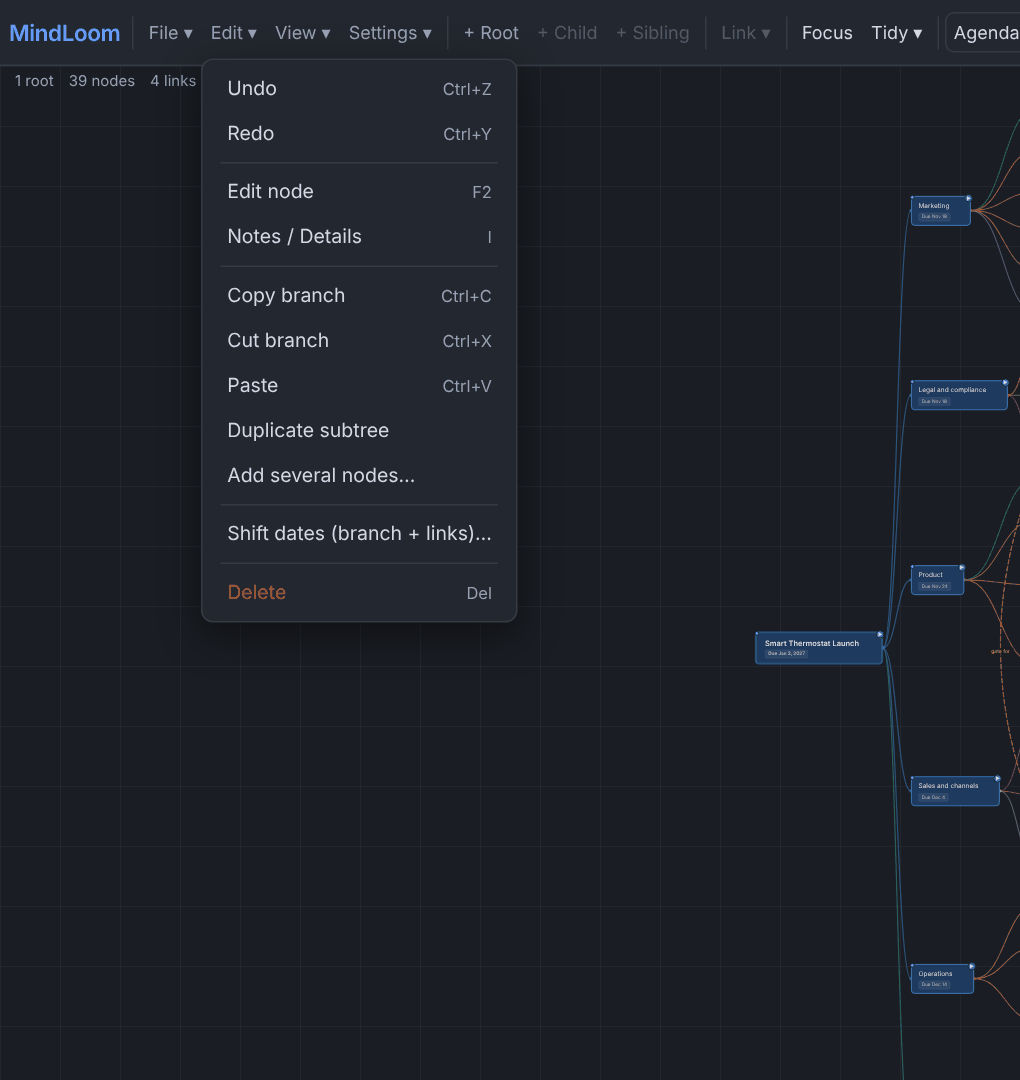
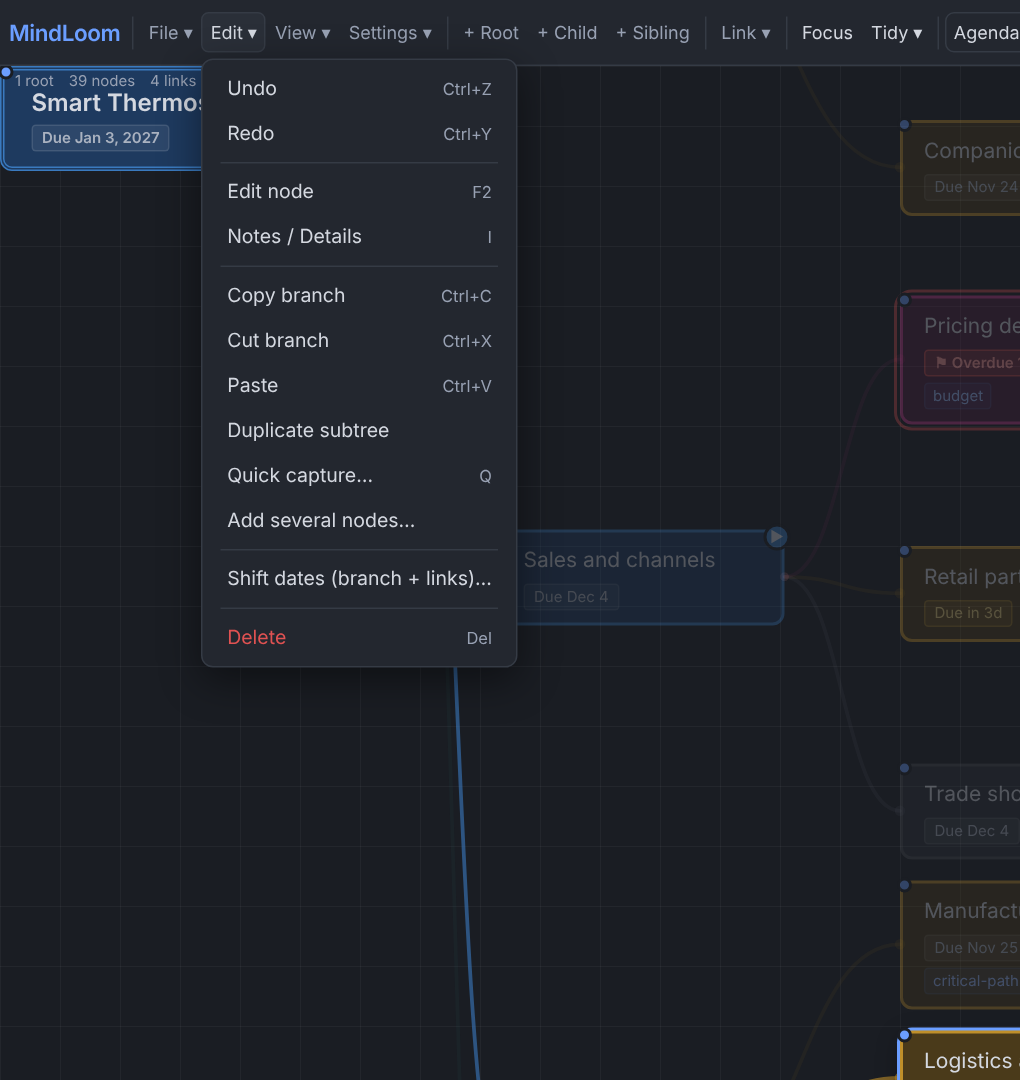
MindLoom 1.38.0: Simple Menus, Welcome tips and a User Guide link
- Settings > Simple Menus (off by default) hides specialist items from the menus and toolbar; Ctrl+K still finds every command
- Welcome tips card shown once in a browser that has never held MindLoom data; reopen from File > Welcome Tips
- File > User Guide, About screen and tips card link to the online guide (only on click)
- User guide: new Simple menus, Welcome tips and guide-link sections, FAQ entry, refreshed File/Edit/View/Settings menu screenshots
- README and version.json bumped to 1.38.0

Claude-Session: https://claude.ai/code/session_01F1jASLsfizm7CQ9EwC3Gd3

diff --git a/MindLoom.html b/MindLoom.html
@@ -432,6 +432,20 @@
   .legend-tools select { flex:1; }
   .cat-edit { position:fixed; z-index:300; width:120px; background:var(--surface); color:var(--text); border:1px solid var(--accent); border-radius:5px; padding:4px 6px; font:12px var(--font); outline:none; box-shadow:0 4px 14px rgba(0,0,0,0.4); }
 
+  /* ── Simple menus and welcome tips ── */
+  body.simple-menus .adv { display:none !important; }
+  #tips-card { position:fixed; top:78px; right:16px; width:310px; z-index:130; display:none; background:var(--surface); border:1px solid var(--border); border-radius:10px; box-shadow:0 8px 28px rgba(0,0,0,0.4); padding:14px 16px 12px; font-size:12.5px; line-height:1.5; color:var(--text); }
+  #tips-card.visible { display:block; }
+  #tips-card h3 { margin:0 0 8px; font-size:14px; }
+  #tips-card ul { list-style:none; margin:0 0 10px; padding:0; }
+  #tips-card li { display:flex; gap:10px; align-items:baseline; padding:2px 0; }
+  #tips-card li > kbd { flex:0 0 52px; text-align:center; }
+  #tips-card kbd { font:11px var(--font); background:var(--surface-hover); border:1px solid var(--border); border-radius:4px; padding:1px 6px; white-space:nowrap; }
+  #tips-card .tc-row { display:flex; justify-content:space-between; align-items:center; gap:10px; }
+  #tips-card a { color:var(--accent); }
+  #tips-card button { background:var(--accent); color:#fff; border:0; border-radius:6px; padding:5px 14px; font:12px var(--font); cursor:pointer; }
+  #tips-card .tc-note { margin-top:8px; font-size:10.5px; color:var(--text-muted); }
+
   /* ── Minimap ── */
   #minimap {
     position:fixed; bottom:16px; left:16px; width:180px; height:120px;
@@ -1082,7 +1096,7 @@
   /* ── Print stylesheet ── */
   @media print {
     body { background:#fff !important; color:#000 !important; overflow:visible !important; height:auto !important; }
-    #toolbar, #filter-bar, #color-bar, #bulk-bar, #minimap, #legend,
+    #toolbar, #filter-bar, #color-bar, #bulk-bar, #minimap, #legend, #tips-card,
     #detail-panel, #ctx-menu, #about-overlay, #shift-overlay, #bulk-overlay, #impact-bar, #impact-panel, #lt-overlay, #dc-overlay, #search-box, #focus-panel,
     #stats-panel, #agenda-panel, #timeline-overlay, #mobile-bar, #cmd-overlay, #qc-overlay, #board-overlay, #report-overlay, #tl-tip, #demo-section, #save-badge, #stats, #link-banner, #toast, .collapse-btn, .more-btn,
     #bookmarks-panel, #views-panel, #xp-panel, #bl-panel, #act-panel, #why-bar, #pres-overlay, #due-badge, #dm-tip,
@@ -1167,7 +1181,7 @@
         <div class="dd-submenu-items">
           <button class="dd-item" onclick="exportPNG();closeDD()" title="Save the whole map as a picture">Export PNG</button>
           <button class="dd-item" onclick="exportSVG();closeDD()" title="Save the same picture as a vector image that stays sharp at any size and can be edited in PowerPoint or Inkscape">Export SVG</button>
-          <button class="dd-item" onclick="toggleExportPresets();closeDD()" title="Save named combinations of export settings (Slide view, Critical path, Lines, Bar Colours, background) and export with one click">Export Presets&hellip;</button>
+          <button class="dd-item adv" onclick="toggleExportPresets();closeDD()" title="Save named combinations of export settings (Slide view, Critical path, Lines, Bar Colours, background) and export with one click">Export Presets&hellip;</button>
           <button class="dd-item" onclick="exportMarkdown();closeDD()" title="Export an indented Markdown outline: text, status, owner, project, dates, tags, notes and cross-links. Dependencies, checklists, progress and recurrence are not included (use Save for those)">Export Markdown</button>
           <button class="dd-item" onclick="exportCSV();closeDD()" title="Export nodes as a spreadsheet: text, parent, category, project, owner, status, dates, tags and notes. Cross-links, dependencies, checklists, progress and recurrence are not included (use Save for those)">Export CSV</button>
         </div>
@@ -1177,6 +1191,8 @@
       <div class="dd-sep"></div>
       <button class="dd-item danger" onclick="newMap();closeDD()" title="Start a new empty map (your current map is backed up first)">New Map</button>
       <div class="dd-sep"></div>
+      <button class="dd-item" onclick="openGuide();closeDD()" title="Open the full illustrated User Guide in your browser. It needs an internet connection; MindLoom itself never goes online on its own.">User Guide&hellip;</button>
+      <button class="dd-item" onclick="showTips();closeDD()" title="Show the short list of tips for getting started">Welcome Tips&hellip;</button>
       <button class="dd-item" onclick="showAbout();closeDD()" title="Version, features and information about MindLoom">About MindLoom</button>
     </div>
   </div>
@@ -1198,7 +1214,7 @@
       <button class="dd-item" onclick="openCapture();closeDD()" title="Type a task and press Enter: it goes under an Inbox node without you choosing where. Add a date (fri, tomorrow, +2w), #tag and @owner in the same line">Quick capture&hellip; <span class="shortcut">Q</span></button>
       <button class="dd-item" onclick="openBulkAdd();closeDD()" title="Type or paste a list of names and create them all at once, as top-level nodes or under the selected node">Add several nodes&hellip;</button>
       <div class="dd-sep"></div>
-      <button class="dd-item" onclick="openShiftDates();closeDD()" title="Move the dates of the selected branch (and nodes linked to it) by days, weeks or months">Shift dates (branch + links)&hellip;</button>
+      <button class="dd-item adv" onclick="openShiftDates();closeDD()" title="Move the dates of the selected branch (and nodes linked to it) by days, weeks or months">Shift dates (branch + links)&hellip;</button>
       <div class="dd-sep"></div>
       <button class="dd-item danger" onclick="deleteSelected();closeDD()" title="Delete the selected node and everything beneath it">Delete <span class="shortcut">Del</span></button>
     </div>
@@ -1221,11 +1237,11 @@
       <div class="dd-submenu">
         <button class="dd-item" title="Show or hide side panels such as search, filter, legend and statistics">Panels</button>
         <div class="dd-submenu-items">
-          <button class="dd-item" onclick="toggleFocusPanel();closeDD()" title="Show or hide whole root trees to concentrate on one">Focus Roots <span class="shortcut">G</span></button>
+          <button class="dd-item adv" onclick="toggleFocusPanel();closeDD()" title="Show or hide whole root trees to concentrate on one">Focus Roots <span class="shortcut">G</span></button>
           <button class="dd-item" onclick="toggleFilter();closeDD()" title="Dim nodes that don't match a status, colour, owner or tag">Filter Bar <span class="shortcut">Ctrl+F</span></button>
           <button class="dd-item" onclick="toggleSearch();closeDD()" title="Find nodes by their title, notes, tags or date">Search <span class="shortcut">/</span></button>
           <button class="dd-item" onclick="toggleLegend();closeDD()" title="Show or hide the colour key. Click any name in it to rename a category, pick a ready-made set (Task status, RAG, Workstream) or Reset. You can also double-click a colour on the colour bar. Names are saved with the map. The colours themselves don't change.">Legend / Rename Colours</button>
-          <button class="dd-item" onclick="toggleMinimap();closeDD()" title="Show or hide a small overview of the whole map">Minimap</button>
+          <button class="dd-item adv" onclick="toggleMinimap();closeDD()" title="Show or hide a small overview of the whole map">Minimap</button>
           <button class="dd-item" onclick="toggleStatsPanel();closeDD()" title="Show counts and progress statistics for the map">Statistics <span class="shortcut">S</span></button>
         </div>
       </div>
@@ -1235,8 +1251,8 @@
       <button class="dd-item" onclick="toggleBoard();closeDD()" title="Kanban columns by status, owner or project. Drag cards between columns to change them">Board <span class="shortcut">K</span></button>
       <button class="dd-item" onclick="toggleReport();closeDD()" title="A ready-to-send summary: overdue, blocked, due soon and recently completed. Copy, download or print it">Status report <span class="shortcut">R</span></button>
       <div class="dd-sep"></div>
-      <button class="dd-item" onclick="toggleBookmarks();closeDD()" title="Show your bookmarked nodes and jump to them">Bookmarks <span class="shortcut">B</span></button>
-      <button class="dd-item" onclick="toggleViews();closeDD()" title="Save and recall combinations of filters, hidden trees, collapsed branches and camera position">Saved Views <span class="shortcut">V</span></button>
+      <button class="dd-item adv" onclick="toggleBookmarks();closeDD()" title="Show your bookmarked nodes and jump to them">Bookmarks <span class="shortcut">B</span></button>
+      <button class="dd-item adv" onclick="toggleViews();closeDD()" title="Save and recall combinations of filters, hidden trees, collapsed branches and camera position">Saved Views <span class="shortcut">V</span></button>
       <div id="dep-menu-block" style="display:none">
         <div class="dd-sep"></div>
         <div class="dd-label">Dependencies</div>
@@ -1255,24 +1271,25 @@
       <div class="dd-label">Appearance</div>
       <button class="dd-item" id="theme-toggle" onclick="toggleTheme();closeDD()" title="Switch between the dark and light theme">Theme: Dark</button>
       <button class="dd-item" id="conn-toggle" onclick="toggleConnStyle();closeDD()" title="Switch the lines between curved and squared (right-angle) routing that goes around nodes">Connectors: Curved</button>
+      <button class="dd-item" id="simple-toggle" onclick="toggleSimpleMenus();closeDD()" title="Hide the specialist items (saved views, bookmarks, baselines, link types, activity history and so on) so only the everyday ones show. Ctrl+K still finds every command. Off by default; remembered in this browser">Simple Menus: Off</button>
       <div class="dd-label">Background</div>
       <div class="bg-row" id="bg-colors"></div>
       <div class="dd-label">Pattern</div>
       <div class="bg-row" id="bg-patterns"></div>
       <div class="dd-sep"></div>
       <div class="dd-label">Editing</div>
-      <button class="dd-item" id="act-toggle" onclick="toggleActivity();closeDD()" title="Keep comments and a history of changes (status, dates, owner) for each item. Off by default; saved with this map">Advanced Activity &amp; Comments: Off</button>
-      <button class="dd-item" id="author-btn" style="display:none" onclick="setAuthorName();closeDD()" title="Your name is added to the comments and changes you make, so a shared history shows who did what">Your name: not set</button>
-      <button class="dd-item" id="dep-toggle" onclick="toggleDepMap();closeDD()" title="Adds link types, migration waves, an impact view and a dependency check for mapping how systems rely on each other. Off by default; saved with this map">Application Mapping Structures: Off</button>
-      <button class="dd-item" id="snap-toggle" onclick="toggleSnap();closeDD()" title="Snap nodes to a grid when you drag them">Snap to Grid: Off</button>
-      <button class="dd-item" id="dpl-toggle" onclick="cycleDetailLayout();closeDD()" title="How the details panel is laid out: Classic, Sections (a summary line and collapsible rows) or Property List (a quiet list that shows boxes only when you hover or edit)">Details Layout: Classic</button>
-      <button class="dd-item" id="hover-toggle" onclick="toggleHoverPopup();closeDD()" title="Show a details popup when you hover over a node">Hover Popups: Off</button>
-      <button class="dd-item" id="focussel-toggle" onclick="toggleFocusSel();closeDD()" title="When a node is selected, fade everything unrelated and show only its own links and dependencies">Highlight Selection: On</button>
+      <button class="dd-item adv" id="act-toggle" onclick="toggleActivity();closeDD()" title="Keep comments and a history of changes (status, dates, owner) for each item. Off by default; saved with this map">Advanced Activity &amp; Comments: Off</button>
+      <button class="dd-item adv" id="author-btn" style="display:none" onclick="setAuthorName();closeDD()" title="Your name is added to the comments and changes you make, so a shared history shows who did what">Your name: not set</button>
+      <button class="dd-item adv" id="dep-toggle" onclick="toggleDepMap();closeDD()" title="Adds link types, migration waves, an impact view and a dependency check for mapping how systems rely on each other. Off by default; saved with this map">Application Mapping Structures: Off</button>
+      <button class="dd-item adv" id="snap-toggle" onclick="toggleSnap();closeDD()" title="Snap nodes to a grid when you drag them">Snap to Grid: Off</button>
+      <button class="dd-item adv" id="dpl-toggle" onclick="cycleDetailLayout();closeDD()" title="How the details panel is laid out: Classic, Sections (a summary line and collapsible rows) or Property List (a quiet list that shows boxes only when you hover or edit)">Details Layout: Classic</button>
+      <button class="dd-item adv" id="hover-toggle" onclick="toggleHoverPopup();closeDD()" title="Show a details popup when you hover over a node">Hover Popups: Off</button>
+      <button class="dd-item adv" id="focussel-toggle" onclick="toggleFocusSel();closeDD()" title="When a node is selected, fade everything unrelated and show only its own links and dependencies">Highlight Selection: On</button>
       <button class="dd-item" id="completed-toggle" onclick="toggleHideCompleted();closeDD()" title="Hide nodes marked Completed, along with their branches">Hide Completed: Off</button>
       <div class="dd-sep"></div>
-      <div class="dd-label">Planning</div>
-      <button class="dd-item" id="baseline-open" onclick="toggleBaselines();closeDD()" title="Save the planned dates as a baseline, and show where each Date Axis bar has slipped to">Baselines&hellip;</button>
-      <div class="dd-submenu">
+      <div class="dd-label adv">Planning</div>
+      <button class="dd-item adv" id="baseline-open" onclick="toggleBaselines();closeDD()" title="Save the planned dates as a baseline, and show where each Date Axis bar has slipped to">Baselines&hellip;</button>
+      <div class="dd-submenu adv">
         <button class="dd-item" id="dm-settings-trigger" title="Everything about how the Date Axis looks and behaves">Date Axis settings</button>
         <div class="dd-submenu-items">
           <button class="dd-item" id="datemode-toggle" onclick="toggleDateMode();closeDD()" title="Place nodes on a calendar axis at their dates, grouped in swimlanes">Date Axis: Off</button>
@@ -1307,7 +1324,7 @@
     </div>
   </div>
   <div class="sep tb-wide"></div>
-  <button class="tb-btn tb-view tb-wide" id="tb-focus" onclick="toggleFocusPanel()" title="Show or hide whole root trees so you can concentrate on one (G)">Focus</button>
+  <button class="tb-btn adv tb-view tb-wide" id="tb-focus" onclick="toggleFocusPanel()" title="Show or hide whole root trees so you can concentrate on one (G)">Focus</button>
   <div class="dropdown tb-wide" id="dd-tidy">
     <button class="tb-btn tb-view" onclick="toggleDD('dd-tidy')" title="Auto-arrange nodes into a tree, an outline, or date swimlanes when the Date Axis is on">Tidy &#9662;</button>
     <div class="dropdown-menu" id="ddm-tidy">
@@ -1331,7 +1348,7 @@
     <button class="tb-btn tb-view" id="tb-board" onclick="toggleBoard()" title="Kanban columns by status, owner or project. Drag cards to change them (K)">Board</button>
     <button class="tb-btn tb-view" id="tb-report" onclick="toggleReport()" title="A ready-to-send summary: overdue, blocked, due soon and recently completed (R)">Report</button>
   </div>
-  <button class="tb-btn tb-view tb-wide" id="tb-saved" onclick="toggleViews()" title="Save and recall combinations of filters, hidden trees, collapsed branches and camera position (V)">Saved Views</button>
+  <button class="tb-btn adv tb-view tb-wide" id="tb-saved" onclick="toggleViews()" title="Save and recall combinations of filters, hidden trees, collapsed branches and camera position (V)">Saved Views</button>
 
   <div class="spacer"></div>
   <button class="tb-btn sb-muted" id="save-badge" onclick="saveToFile()" title="Save status: click to save the map to a file"></button>
@@ -1384,6 +1401,18 @@
   </div>
 </div>
 
+<div id="tips-card" role="dialog" aria-label="Welcome tips">
+  <h3>Welcome to MindLoom</h3>
+  <ul>
+    <li><kbd>Tab</kbd><span>add a child &middot; <kbd>Enter</kbd> add a sibling</span></li>
+    <li><kbd>F2</kbd><span>rename the selected node</span></li>
+    <li><kbd>I</kbd><span>add a status, owner and due date</span></li>
+    <li><kbd>Q</kbd><span>quick capture a task, e.g. <i>Call supplier fri #work</i></span></li>
+    <li><kbd class="tc-k">Ctrl+K</kbd><span>find any command</span></li>
+  </ul>
+  <div class="tc-row"><a href="https://healeychris.github.io/MindLoom/" target="_blank" rel="noopener noreferrer">Open the User Guide</a><button type="button" onclick="closeTips()">Got it</button></div>
+  <div class="tc-note">Show this again any time from File &rarr; Welcome Tips.</div>
+</div>
 <div id="qc-overlay" onclick="if(event.target===this)closeCapture()">
   <div id="qc-box" role="dialog" aria-label="Quick capture">
     <input type="text" id="qc-input" placeholder="Quick capture, e.g. Call supplier fri #work @sam" aria-label="Quick capture" autocomplete="off" spellcheck="false" maxlength="300">
@@ -1706,6 +1735,7 @@
       <span id="upd-msg" role="status" aria-live="polite">Not checked. Needs an internet connection; nothing is checked automatically.</span>
     </div>
 
+    <div style="margin-bottom:12px"><a href="https://healeychris.github.io/MindLoom/" target="_blank" rel="noopener noreferrer" style="color:var(--accent)">Open the User Guide</a> <span style="color:var(--text-muted);font-size:11px">&nbsp;with screenshots and step-by-step recipes (needs an internet connection)</span></div>
     <p>A fully offline, single-file tool for mind mapping and planning: dependencies, a board, a timeline and status reports, all from one map. No cloud services, no dependencies, no install &mdash; just save the HTML file and open it in any browser.</p>
     <p>Created by <strong>Chris Healey</strong>, built with assistance from <strong>Claude</strong> (Anthropic).</p>
 
@@ -1849,6 +1879,7 @@
 
 <script>
 const $=s=>document.querySelector(s), $$=s=>document.querySelectorAll(s);
+const HAD_DATA=(()=>{try{for(let i=0;i<localStorage.length;i++){const k=localStorage.key(i)||'';if(k.startsWith('mindloom')||k.startsWith('mindmap'))return true;}}catch(e){}return false;})();
 
 // ── Filename helper: MindLoom-DDMMYYYY.ext ──
 function dfn(ext){const d=new Date();const dd=String(d.getDate()).padStart(2,'0');const mm=String(d.getMonth()+1).padStart(2,'0');const yyyy=d.getFullYear();return 'MindLoom-'+yyyy+mm+dd+'.'+ext;}
@@ -2248,7 +2279,7 @@ function sanitizeLinks(raw,list){
 const OLD_KEY='mindmap_v5';
 const LEGACY_KEY='mindloom_v1';
 const STORE_KEY=location.protocol==='file:'?LEGACY_KEY+':'+location.pathname:LEGACY_KEY;
-const FORMAT_NAME='MindLoom',FORMAT_VERSION=5,APP_VERSION='1.37.1';
+const FORMAT_NAME='MindLoom',FORMAT_VERSION=5,APP_VERSION='1.38.0';
 const BK_KEY=STORE_KEY+':backups',BACKUP_EVERY=10*60*1000,NUDGE_EVERY=10*60*1000,BACKUP_KEEP=6,PROTECTED_KEEP=6,PROTECTED_LABELS=['last session','before load','before new map','before restore'];
 let storageWarned=false;
 function storageGet(k){try{return localStorage.getItem(k);}catch(e){return null;}}
@@ -2256,6 +2287,22 @@ function storageSet(k,v){
   try{localStorage.setItem(k,v);return true;}
   catch(e){if(!storageWarned){storageWarned=true;toast('Browser storage unavailable — use File > Save to keep your work');}return false;}
 }
+
+// ── Simple menus, User Guide link and welcome tips ──
+const GUIDE_URL='https://healeychris.github.io/MindLoom/';
+const PREFS_KEY=LEGACY_KEY+':prefs';
+let prefs={};try{prefs=JSON.parse(storageGet(PREFS_KEY)||'{}')||{};}catch(e){prefs={};}
+function savePrefs(){storageSet(PREFS_KEY,JSON.stringify(prefs));}
+function setSimpleMenus(v,quiet){
+  prefs.simple=!!v;document.body.classList.toggle('simple-menus',prefs.simple);
+  const b=$('#simple-toggle');if(b)b.textContent='Simple Menus: '+(prefs.simple?'On':'Off');
+  savePrefs();if(!quiet)toast(prefs.simple?'Simple menus on. Ctrl+K still finds every command':'Simple menus off');
+}
+function toggleSimpleMenus(){setSimpleMenus(!prefs.simple);}
+function openGuide(){window.open(GUIDE_URL,'_blank','noopener,noreferrer');}
+function showTips(){$('#tips-card').classList.add('visible');}
+function closeTips(){$('#tips-card').classList.remove('visible');if(!prefs.tipsSeen){prefs.tipsSeen=1;savePrefs();}}
+document.addEventListener('keydown',e=>{if(e.key==='Escape'&&$('#tips-card').classList.contains('visible'))closeTips();});
 
 // ── Init ──
 function init(){
@@ -7764,6 +7811,9 @@ function selfTest(){
      ok('quick capture +2w and ISO dates',qcParse('Review plan +2w').due===addToIso(new Date(tm).toISOString().slice(0,10),2,'w')&&qcParse('Ship it 2031-12-01').due==='2031-12-01'&&qcParse('Ship it 31/02/2031').due==='');}
     {const keep=COLORS.map(c=>c.label);applyLabels(LABEL_SETS['Task status']);const a=COLORS[3].label==='In progress'&&COLORS[4].label==='Blocked'&&COLORS[2].label==='Done';applyLabels(DEFAULT_LABELS);const b=COLORS[3].label==='In Progress'&&COLORS[1].label==='Primary';applyLabels(keep);
      ok('colour label sets apply and reset',a&&b&&Object.values(LABEL_SETS).every(x=>x.length===COLORS.length));}
+    {const was=!!prefs.simple;setSimpleMenus(true,true);const hid=getComputedStyle($('#dep-toggle')).display==='none'&&getComputedStyle($('#tb-saved')).display==='none'&&getComputedStyle($('#simple-toggle')).display!=='none';
+     setSimpleMenus(false,true);const back=getComputedStyle($('#dep-toggle')).display!=='none';setSimpleMenus(was,true);
+     ok('simple menus hide specialist items and keep the switch visible',hid&&back);}
   }catch(e){ok('self-test crashed: '+e.message,false);}
   const bad=res.filter(r=>!r[1]);
   console.log('MindLoom self-test\n'+res.map(r=>(r[1]?'PASS ':'FAIL ')+r[0]).join('\n'));
@@ -7773,6 +7823,10 @@ function selfTest(){
 $('#selftest-btn').addEventListener('click',selfTest);
 $('#about-ver').textContent='Version '+APP_VERSION;
 init();
+setSimpleMenus(prefs.simple,true);
+if(/Mac|iPhone|iPad/.test(navigator.platform||''))$('#tips-card .tc-k').textContent='\u2318K';
+// the tips card opens by itself only in a browser that has never held MindLoom data, and only once
+if(!HAD_DATA&&!prefs.tipsSeen)setTimeout(showTips,700);
 </script>
 </body>
 </html>

diff --git a/docs/index.html b/docs/index.html
@@ -116,6 +116,7 @@ footer{color:var(--muted);font-size:13px;border-top:1px solid var(--border);padd
   <h4>Everyday use</h4>
   <a href="#files">Saving, files and backups</a>
   <a href="#settings">Settings and appearance</a>
+  <a href="#simple-menus">&nbsp;&nbsp;Simple menus</a>
   <a href="#shortcuts">Keyboard shortcuts</a>
   <a href="#examples">Example maps</a>
   <a href="#faq">Questions and fixes</a>
@@ -141,7 +142,7 @@ footer{color:var(--muted);font-size:13px;border-top:1px solid var(--border);padd
     <div class="card"><h4>Map how things connect</h4><p>Optionally switch on Application Mapping Structures to show what relies on what, for migrations and change planning.</p></div>
   </div>
   <h3>How to read this guide</h3>
-  <p>Use the contents on the left, or the search box at the top. If you are new, read <a href="#quickstart">Quick start</a>, then try a <a href="#recipes">recipe</a>. Everything is also in the <a href="#shortcuts">keyboard shortcut</a> list and the <a href="#faq">questions and fixes</a> section. Developers and IT teams will find the <a href="#technical">technical reference</a> at the end.</p>
+  <p>Use the contents on the left, or the search box at the top. If you are new, read <a href="#quickstart">Quick start</a>, then try a <a href="#recipes">recipe</a>. Everything is also in the <a href="#shortcuts">keyboard shortcut</a> list and the <a href="#faq">questions and fixes</a> section. Developers and IT teams will find the <a href="#technical">technical reference</a> at the end. Inside MindLoom, <b>File &rarr; User Guide</b> opens this page.</p>
   <div class="callout tip"><b class="t">Keep this open while you learn</b>Press <kbd>?</kbd> in MindLoom for a built-in list of shortcuts and tips, and <kbd>Ctrl</kbd>+<kbd>K</kbd> to search every command by name.</div>
 </section>
 
@@ -149,7 +150,7 @@ footer{color:var(--muted);font-size:13px;border-top:1px solid var(--border);padd
   <h2>Quick start</h2>
   <p>Five minutes to your first useful map.</p>
   <ol class="steps">
-    <li><b>Open the file.</b> Double-click <code>MindLoom.html</code>. It opens in your normal browser and works without an internet connection. You start on a fresh map with one central idea.</li>
+    <li><b>Open the file.</b> Double-click <code>MindLoom.html</code>. It opens in your normal browser and works without an internet connection. You start on a fresh map with one central idea. The first time you use MindLoom in a browser, a short <a href="#welcome-tips">Welcome tips</a> card appears.</li>
     <li><b>Name the central idea.</b> Select it and press <kbd>F2</kbd>, type a name and press <kbd>Enter</kbd>.</li>
     <li><b>Add branches.</b> With a node selected, press <kbd>Tab</kbd> to add a child and <kbd>Enter</kbd> to add a sibling. Type, press <kbd>Enter</kbd>, and keep going.</li>
     <li><b>Capture ideas quickly.</b> Press <kbd>Q</kbd> from anywhere, type a task such as <i>Call supplier fri #work @sam</i> and press <kbd>Enter</kbd>. It is filed under an Inbox node for you to sort later (<a href="#basics">more on Quick capture</a>).</li>
@@ -481,7 +482,7 @@ footer{color:var(--muted);font-size:13px;border-top:1px solid var(--border);padd
     <tr><td>Rolling backups</td><td>Your browser</td><td>File &rarr; Restore backup. Your previous map is kept here as "last session".</td></tr>
   </table>
   <p>MindLoom always opens on a fresh map. To continue earlier work, use <b>File &rarr; Load</b> or <b>Restore backup</b>.</p>
-  <figure class="small"><img src="img/menu-file.png" alt="The File menu" loading="lazy"><figcaption>The File menu.</figcaption></figure>
+  <figure class="small"><img src="img/menu-file.png" alt="The File menu" loading="lazy"><figcaption>The File menu. <b>User Guide</b> opens this guide in your browser, and <b>Welcome Tips</b> shows the getting-started card again.</figcaption></figure>
   <h3>Saving</h3>
   <ul>
     <li><b>Save</b> (<kbd>Ctrl</kbd>+<kbd>S</kbd>) and <b>Save As</b> write a file in MindLoom's own format. Use this for your real work.</li>
@@ -509,6 +510,7 @@ footer{color:var(--muted);font-size:13px;border-top:1px solid var(--border);padd
     <tr><th>Setting</th><th>What it does</th></tr>
     <tr><td>Theme</td><td>Dark or light</td></tr>
     <tr><td>Connectors</td><td>Curved or squared lines</td></tr>
+    <tr><td>Simple Menus</td><td>Hide the specialist items so only the everyday ones show (<a href="#simple-menus">details</a>)</td></tr>
     <tr><td>Background and pattern</td><td>Canvas colour, and a grid, dots or none</td></tr>
     <tr><td>Details Layout</td><td>Classic, Sections or Property List for the details panel (<a href="#details">details</a>)</td></tr>
     <tr><td>Advanced Activity &amp; Comments</td><td>History and comments per item (<a href="#activity">details</a>)</td></tr>
@@ -520,6 +522,27 @@ footer{color:var(--muted);font-size:13px;border-top:1px solid var(--border);padd
     <tr><td>Baselines, Date Axis settings</td><td>Planning options (<a href="#dateaxis">details</a>)</td></tr>
   </table>
   <figure><img src="img/light.png" alt="Light theme" loading="lazy"><figcaption>The light theme, a good choice for printing and projectors.</figcaption></figure>
+  <h3 id="simple-menus">Simple menus</h3>
+  <p>MindLoom has a lot of specialist features. If you only need the everyday ones, turn on <b>Settings &rarr; Simple Menus</b>. The specialist items disappear from the menus and toolbar, and the screen is quieter. It is <b>off by default</b> and is remembered in your browser (it is not stored in your map file).</p>
+  <figure class="small"><img src="img/menu-settings-simple.png" alt="The Settings menu with Simple Menus on" loading="lazy"><figcaption>With Simple Menus on, the Settings menu shrinks to the everyday items.</figcaption></figure>
+  <table>
+    <tr><th>Menu</th><th>Hidden while Simple Menus is on</th></tr>
+    <tr><td>Toolbar</td><td>Focus and Saved Views</td></tr>
+    <tr><td>File</td><td>Export Presets</td></tr>
+    <tr><td>Edit</td><td>Shift dates</td></tr>
+    <tr><td>View</td><td>Focus Roots, Minimap, Bookmarks and Saved Views</td></tr>
+    <tr><td>Settings</td><td>Advanced Activity &amp; Comments, Application Mapping Structures, Snap to Grid, Details Layout, Hover Popups, Highlight Selection, Baselines and the Date Axis settings</td></tr>
+  </table>
+  <ul>
+    <li><b>Nothing is lost.</b> Maps keep all their data, and the Agenda, Timeline, Date Axis, Board and Report buttons stay where they are.</li>
+    <li><b>Ctrl+K still finds everything.</b> The <a href="#find">command palette</a> lists every command, including the hidden ones.</li>
+    <li>To get the hidden items back, open <b>Settings</b> and switch <b>Simple Menus</b> off. That item always stays visible.</li>
+  </ul>
+  <h3 id="welcome-tips">Welcome tips</h3>
+  <p>The first time MindLoom is opened in a browser that has never held a MindLoom map, a small card lists the handful of keys worth knowing. Click <b>Got it</b> (or press <kbd>Esc</kbd>) and it does not appear again by itself. A browser that already holds MindLoom data never shows it on its own. To see it any time, choose <b>File &rarr; Welcome Tips</b>.</p>
+  <figure><img src="img/welcome-tips.png" alt="The Welcome tips card on a blank map" loading="lazy"><figcaption>The Welcome tips card, with a link to this guide.</figcaption></figure>
+  <h3>Opening this guide from MindLoom</h3>
+  <p><b>File &rarr; User Guide</b>, the About screen and the Welcome tips card all open this page in a new tab. MindLoom only goes online when you click one of them (or press <b>Check for updates</b>); it never connects by itself. If you work without a connection, download the project from GitHub (<b>Code &rarr; Download ZIP</b>) and open <code>docs/index.html</code> from the unzipped folder.</p>
   <p>The <b>View</b> menu collects panels and view options in one place. Its <b>Panels</b> list includes the <b>Legend / Rename Colours</b> panel (see <a href="#basics">Colour</a>).</p>
   <figure class="small"><img src="img/menu-view.png" alt="The View menu" loading="lazy"><figcaption>The View menu.</figcaption></figure>
 </section>
@@ -574,7 +597,9 @@ footer{color:var(--muted);font-size:13px;border-top:1px solid var(--border);padd
   <h3>The save badge says "Browser copy only".</h3>
   <p>That means no file copy has been saved yet. Press <kbd>Ctrl</kbd>+<kbd>S</kbd>.</p>
   <h3>Why can't I see the link types or Show impact?</h3>
-  <p>They belong to <a href="#mapping">Application Mapping Structures</a>, which is off by default. Turn it on in <b>Settings</b>.</p>
+  <p>They belong to <a href="#mapping">Application Mapping Structures</a>, which is off by default. Turn it on in <b>Settings</b>. If you cannot see that setting, <a href="#simple-menus">Simple Menus</a> is on; switch it off first.</p>
+  <h3>Some menu items have gone (Saved Views, Baselines, Details Layout&hellip;).</h3>
+  <p><a href="#simple-menus">Simple Menus</a> is switched on in <b>Settings</b>. Switch it off to see everything again. <kbd>Ctrl</kbd>+<kbd>K</kbd> finds every command even while it is on.</p>
   <h3>Why are some nodes missing on the Date Axis?</h3>
   <p>Items with no dates are hidden there. Use the button that shows how many are hidden to bring them back, or give them dates.</p>
   <h3>My links look curved when I wanted square lines.</h3>
@@ -594,7 +619,7 @@ footer{color:var(--muted);font-size:13px;border-top:1px solid var(--border);padd
   <ul>
     <li><b>One file.</b> The whole application (HTML, CSS and JavaScript) is a single <code>MindLoom.html</code>, with no build step and no runtime dependencies.</li>
     <li><b>Offline.</b> It never loads scripts, fonts or data from the network.</li>
-    <li><b>Local data.</b> State is held in memory, backed up to the browser's <code>localStorage</code>, and saved by the user as a JSON file.</li>
+    <li><b>Local data.</b> State is held in memory, backed up to the browser's <code>localStorage</code>, and saved by the user as a JSON file. Two personal preferences (Simple Menus, and whether the Welcome tips have been seen) are kept in the browser only and are never written to the map file.</li>
     <li><b>Plain JavaScript</b> with no framework. The map is rendered as absolutely positioned DOM elements over an SVG layer for connectors.</li>
   </ul>
   <h3>Browser support</h3>
@@ -691,8 +716,8 @@ frame-src 'none';  object-src 'none'</code></pre>
     <li><b>Publishing a release (maintainers).</b> Replace <code>MindLoom.html</code>, update the version and notes in <code>version.json</code> and the header of <code>README.md</code>, commit, and update <code>main</code>.</li>
     <li><b>This guide.</b> It is a static page in the <code>docs</code> folder, served with GitHub Pages. Edit <code>docs/index.html</code> and commit to update it.</li>
   </ul>
-  <pre><code>{ "version": "1.37.1", "date": "2026-11-16", "notes": "What changed" }</code></pre>
-  <footer>MindLoom was created by Chris Healey, built with assistance from Claude (Anthropic). This guide describes version 1.37.1.</footer>
+  <pre><code>{ "version": "1.38.0", "date": "2026-11-16", "notes": "What changed" }</code></pre>
+  <footer>MindLoom was created by Chris Healey, built with assistance from Claude (Anthropic). This guide describes version 1.38.0.</footer>
 </section>
 </main>
 </div>

diff --git a/README.md b/README.md
@@ -1,4 +1,4 @@
-# MINDLOOM FEATURES (v1.37.1)
+# MINDLOOM FEATURES (v1.38.0)
 
 https://healeychris.github.io/MindLoom/
 
@@ -6,7 +6,13 @@ USER GUIDE: see the docs folder (index.html), published with GitHub Pages. It co
 step-by-step recipes, example maps (docs/examples) and a technical reference.
 
 
-WHAT'S NEW IN 1.37
+WHAT'S NEW IN 1.38
+
+Simple Menus (Settings): hides the specialist items from the menus and toolbar, off by default. Ctrl+K still finds every command
+Welcome tips: a short card shown once in a browser that has never held a MindLoom map; reopen it from File > Welcome Tips
+User Guide link: File > User Guide, the About screen and the tips card open the online guide (only when clicked; MindLoom never goes online by itself)
+
+EARLIER IN 1.37
 
 Quick capture (key Q, or Edit > Quick capture): a one-line box that adds a task under an Inbox node without choosing where.
   Add #tags, an @owner and a trailing date (today, tomorrow, fri, +2w, 27/11) in the same line; a live preview shows
